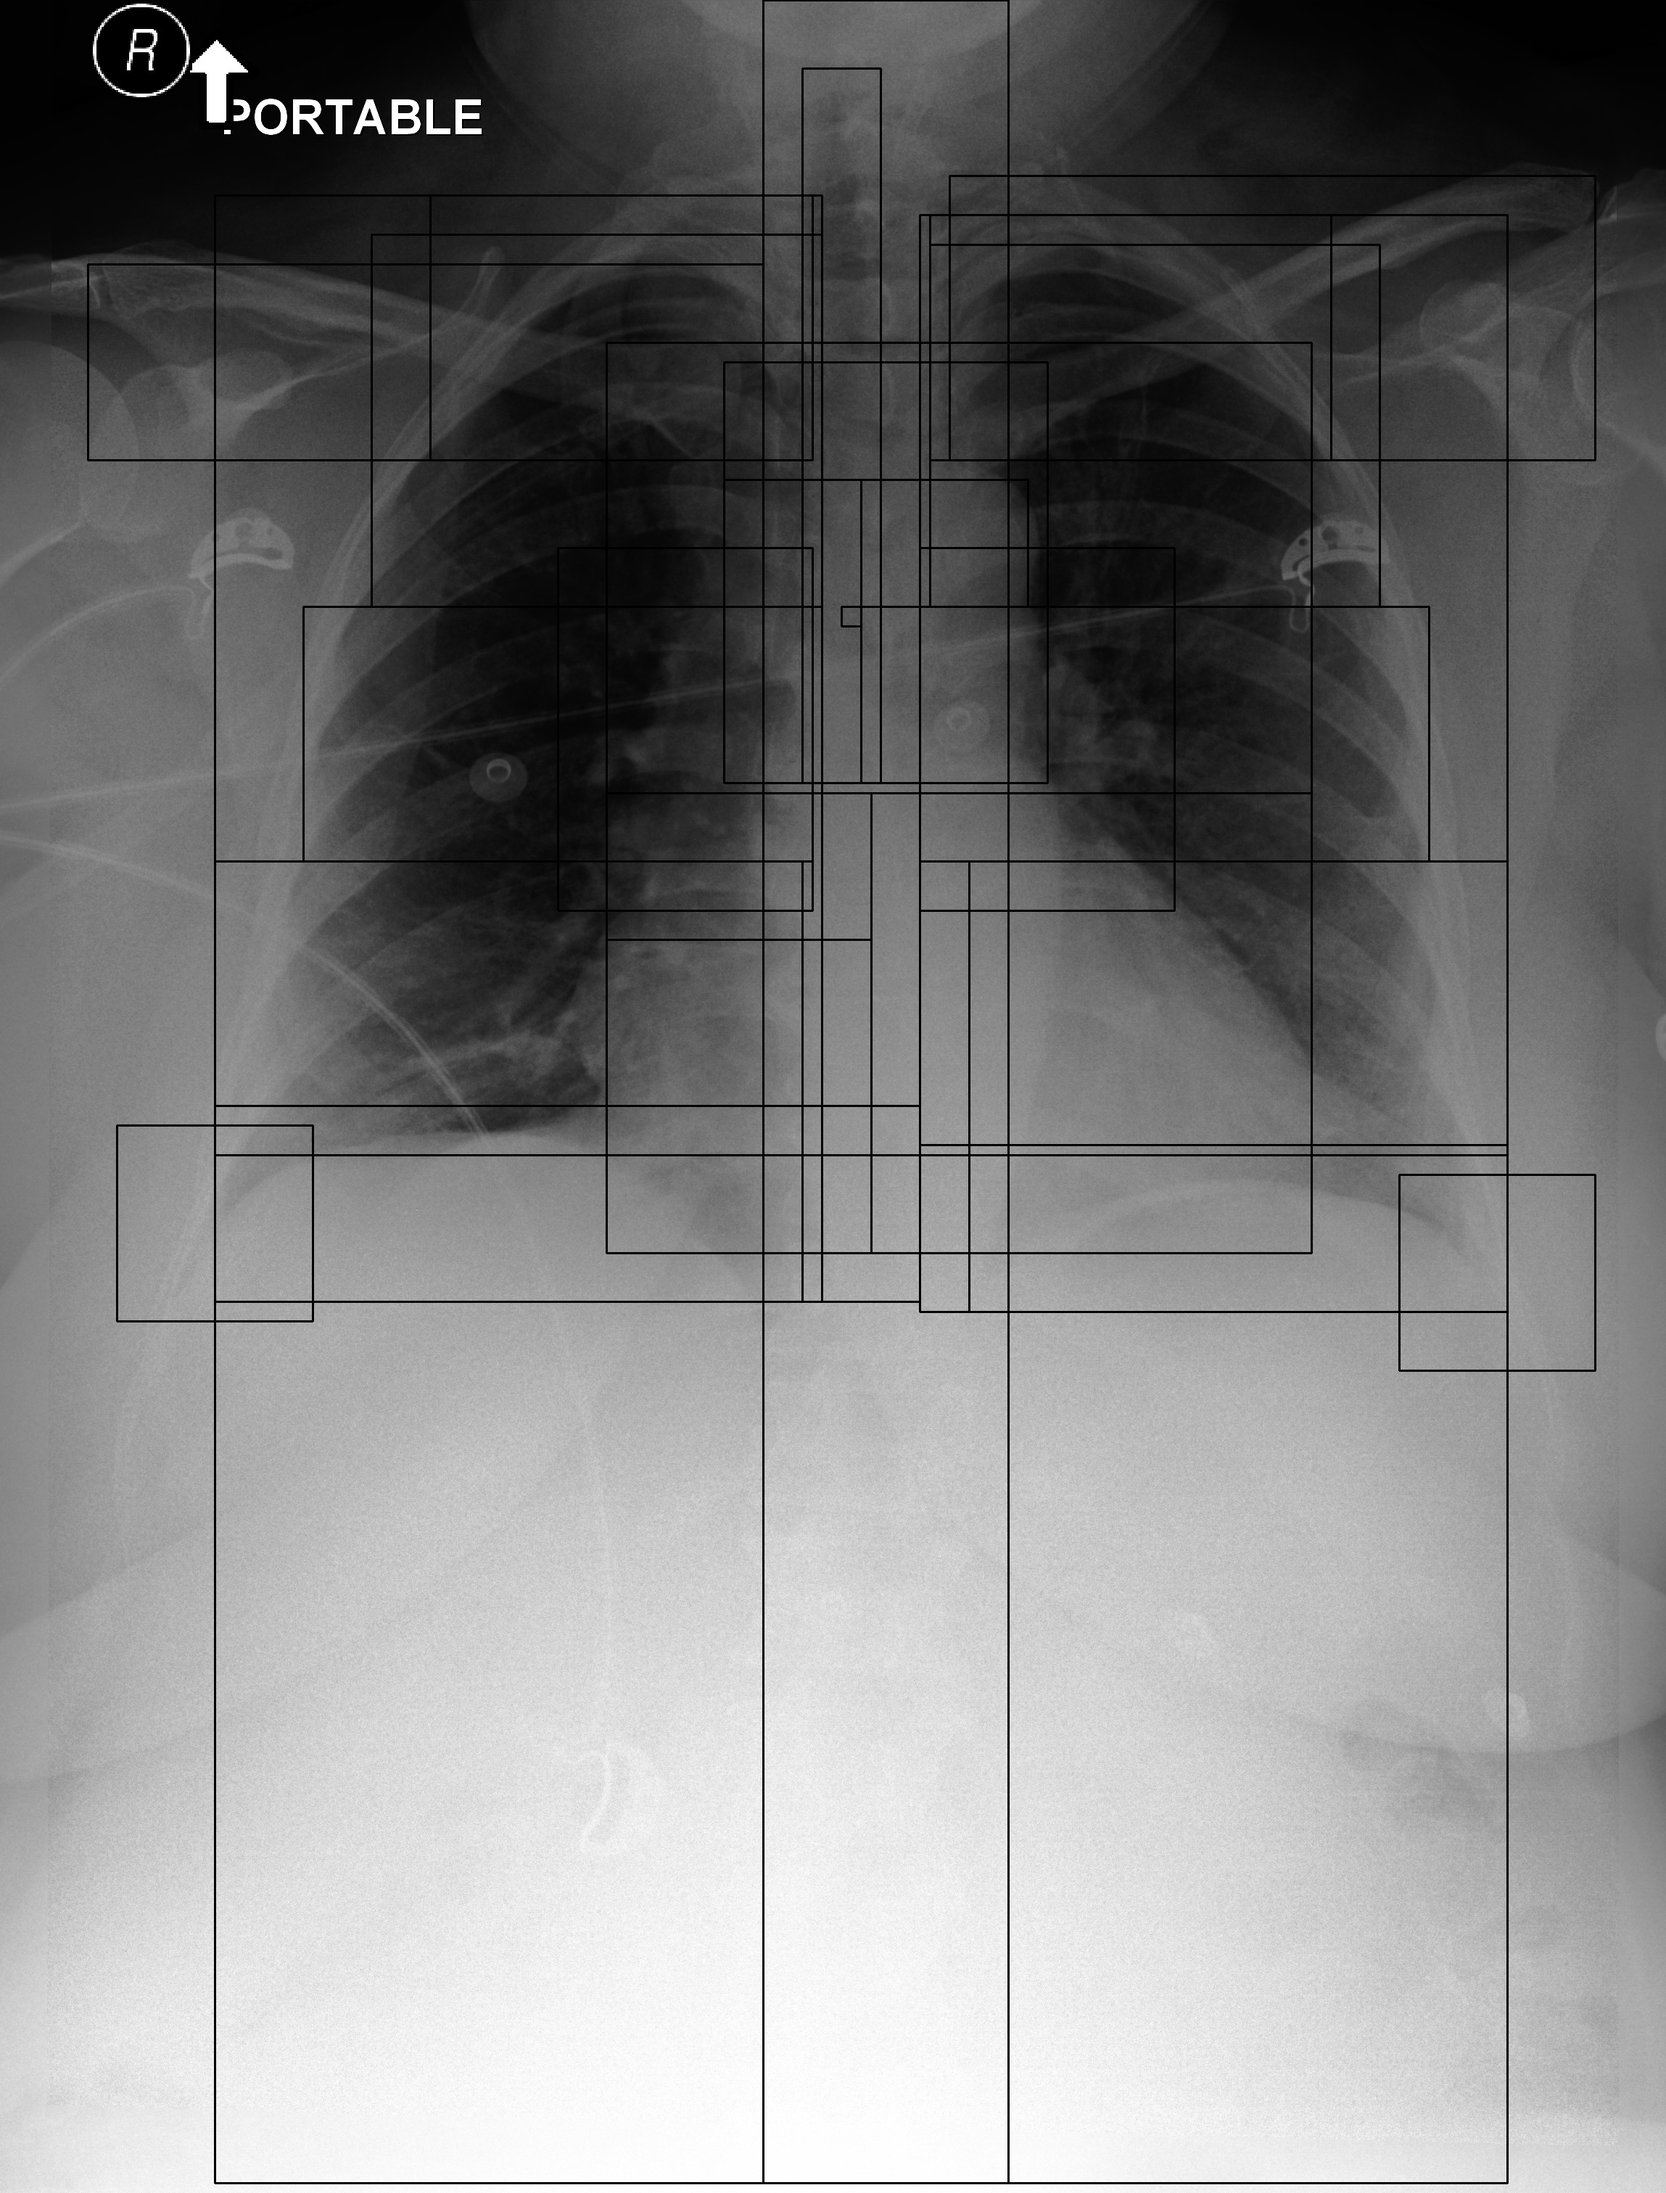
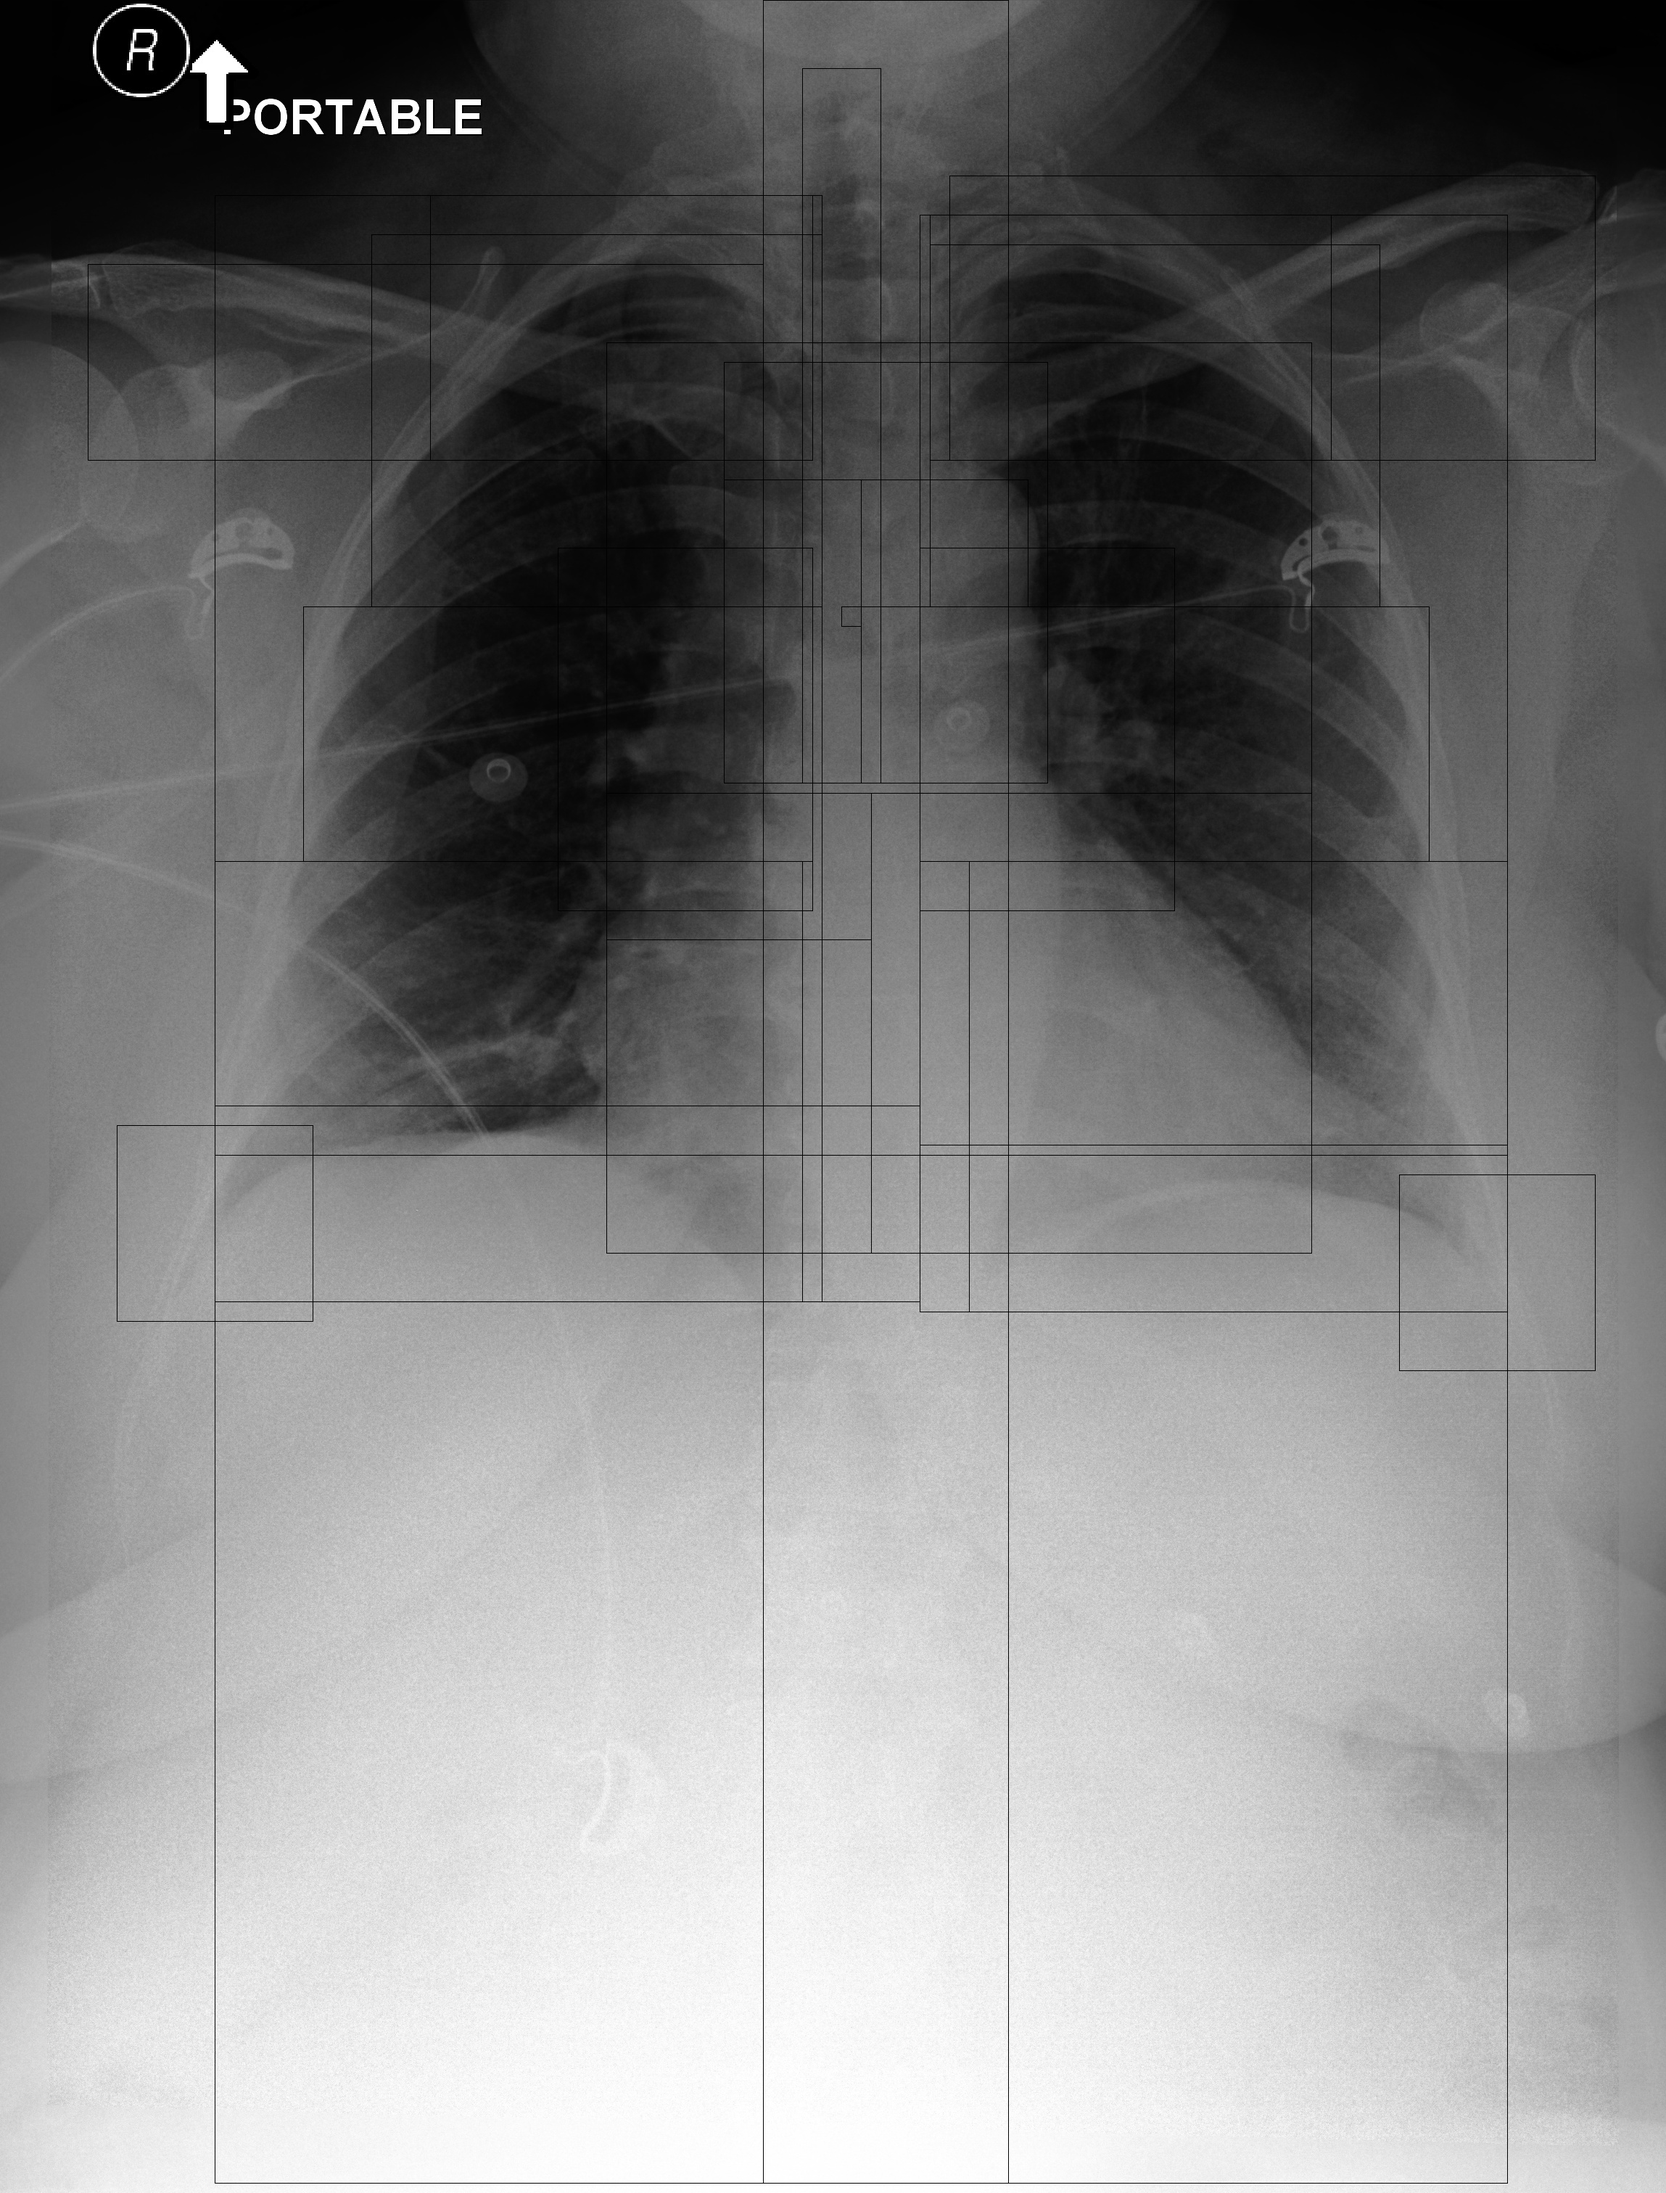
update data preprocessing

diff --git a/detector/data_loader.py b/detector/data_loader.py
@@ -9,6 +9,8 @@ from torchvision.transforms import functional as F
 import random
 import pandas as pd 
 from torchvision.transforms import v2
+from torchvision import tv_tensors  # we'll describe this a bit later, bare with us
+
 import matplotlib.pyplot as plt
 # from .utils import plot_example_with_boxes
 
@@ -45,38 +47,31 @@ class F_RCNNDataset(Dataset):
         # convert the string representation of bounding boxes into list of list
         bboxes = eval(bboxes)
 
-        # resize the image with the bounding boxes accordingly to 512x512
-        # img, bboxes = self.resize(img, bboxes, (512, 512))
-        img,bboxes = ResizeAndPad((512,512))(img,bboxes)
-
         # get the labels
         labels = self.data_info.iloc[idx, 5]
 
         # convert the string representation of labels into list
         labels = np.array(eval(labels))
 
+        # resize the image with the bounding boxes accordingly to 512x512
+        img,bboxes = ResizeAndPad((512,512))(img,bboxes)
+
+
+
         if self.transform:
-            transform_dict = self.transform(img,bboxes,labels)
-            img = transform_dict['image']
-            bboxes = transform_dict['bboxes']
-            labels = transform_dict['labels']
+            bboxes = tv_tensors.BoundingBoxes(
+                bboxes,
+                format="XYXY", canvas_size=(512, 512))
+            img, bboxes = self.transform(img, bboxes)
+            # print size of image
+            print(img.size())
+
+            # p
         else:
-            img = torch.as_tensor(img, dtype=torch.float32)
+            img = Image.fromarray(img)
+            img = v2.ToTensor()(img)
             bboxes = torch.as_tensor(bboxes, dtype=torch.float32)
-            labels = torch.as_tensor(labels, dtype=torch.int64)
-        # convert everything into a torch.Tensor
-        # bboxes = np.array(eval(bboxes))
-        # labels = np.array(eval(labels))
-
-        # bboxes = torch.as_tensor(bboxes, dtype=torch.float64)
-        # labels = torch.as_tensor(labels, dtype=torch.int64)
-        # img=torch.as_tensor(img,dtype=torch.float32)
-
-        # if self.transform:
-        #     transform_dict = self.transform(img,bboxes,labels)
-        #     img = transform_dict['image']
-        #     bboxes = transform_dict['bboxes']
-        #     labels = transform_dict['labels']
+        labels = torch.as_tensor(labels, dtype=torch.int64)
 
         # define the bounding box
         target = {}
@@ -88,28 +83,30 @@ class F_RCNNDataset(Dataset):
 # implement transforms as augmentation with gaussian noise, random rotation
 
 class Augmentation(object):
-    def __init__(self, noise_std=0.1, rotate_angle=10):
+    def __init__(self, noise_std=0.1, rotate_angle=2):
         self.noise_std = noise_std
         self.rotate_angle = rotate_angle
 
-        self.transforms = v2.Compose([
+        self.rotation_transforms = v2.Compose([
             # randomly rotate the image
-            v2.RandomRotation(self.rotate_angle),
+            # v2.RandomRotation(self.rotate_angle),
+            
+            v2.RandomRotation(degrees=(-self.rotate_angle, self.rotate_angle)),
             v2.ToTensor(),
-
-            # add gaussian noise to the image
+            ]
+        )
+        self.normalize_transforms = v2.Compose([
+            # randomly rotate the image
             AddGaussianNoise(0,self.noise_std),
-
-            # convert the image to tensor and normalize with imagenet mean and std
-            v2.Normalize(0.485, 0.229), # normalize with imagenet mean and std
-        ],
-        # resize the bounding boxes accordingly
-        bbox_params=v2.BboxParams(format='pascal_voc', label_fields=['labels'])
+            v2.Normalize([0.499], [0.291]), # normalize with imagenet mean and std
+            ]
         )
 
-    def __call__(self, img,bboxes,labels):
+    def __call__(self, img,bboxes):
         # apply the transforms to the image and the bounding boxes
-        return self.transforms(image=img, bboxes=bboxes,class_labels=labels)
+        img = self.normalize_transforms(img)
+        img = Image.fromarray(img)
+        return self.rotation_transforms(img,bboxes)
 
 
 # Define a custom transform to add Gaussian noise
@@ -118,9 +115,14 @@ class AddGaussianNoise(object):
         self.mean = mean
         self.std = std
 
-    def __call__(self, tensor):
-        # Add Gaussian noise to the tensor
-        return tensor + torch.randn(tensor.size()) * self.std + self.mean
+    def __call__(self, img):
+        # Add Gaussian noise to the PIL image
+        img = np.array(img)
+        img = img.astype(np.float32)
+        noise = np.random.normal(self.mean, self.std, img.shape)
+        img = img + noise
+        img = np.clip(img, 0, 255).astype(np.uint8)
+        return img
 
 
 # Define a custom transform to resize and pad the image and update bounding boxes
@@ -131,31 +133,62 @@ class ResizeAndPad(object):
     def __call__(self, image, boxes=None):
         # Resize the  image while maintaining aspect ratio
         width, height = image.shape[0],image.shape[1]
+
+        # calculate aspect ratio
         aspect_ratio = width / height
+
+        # get the long and short side of the image
         long_side = max(self.target_size)
         short_side = min(self.target_size)
 
         new_width = 0
         new_height = 0
+
+        # resize the image according to the long side
+        # if width > height then resize according to width
         if width > height:
+            # width = 1024 , height = 512, long_side = 512, aspect ratio = 2 => new_width = 512, new_height = 256
             new_width = long_side
             new_height = int(new_width / aspect_ratio)
 
         else:
+            # width = 512 , height = 1024, long_side = 512, aspect ratio = 0.5 => new_width = 256, new_height = 512
             new_height = long_side
             new_width = int(new_height * aspect_ratio)
+        
+        # new width is row, new height is column
+        # resize the image
         resized_image = cv2.resize(image, (new_height, new_width))
 
         # Create a new black grayscale image with the desired size
         new_image = np.zeros(self.target_size, dtype=np.float32)
-        # add the resized image to top left corner of the new image
-        new_image[:new_width, :new_height] = resized_image
-        # change the bounding boxes accordingly
-        if boxes is not None:
-            boxes = np.array(boxes)
-            boxes[:, [0, 2]] = boxes[:, [0, 2]] * (new_width / width)
-            boxes[:, [1, 3]] = boxes[:, [1, 3]] * (new_height / height)
+
+        # add the resized image to the new image and center it
+        # if width > height then the resized image will be added to the new image with the same width but different height
+        if new_width > new_height:
+            # calculate the starting and ending column
+            start = int((new_width - new_height) / 2)
+            end = start + new_height
+            new_image[:, start:end] = resized_image
+            # change the bounding boxes accordingly and add shift to the x coordinate
+            if boxes is not None:
+                boxes = np.array(boxes)
+                boxes[:, [0, 2]] = boxes[:, [0, 2]] * (new_height / height) + start
+                boxes[:, [1, 3]] = boxes[:, [1, 3]] * (new_width / width)
+        else:
+            # if width < height then the resized image will be added to the new image with the same height but different width
+            # calculate the starting and ending row
+            start = int((new_height - new_width) / 2)
+            end = start + new_width
+            new_image[start:end, :] = resized_image
+            # change the bounding boxes accordingly and add shift to the y coordinate
+            if boxes is not None:
+                boxes = np.array(boxes)
+                boxes[:, [0, 2]] = boxes[:, [0, 2]] * (new_height / height)
+                boxes[:, [1, 3]] = boxes[:, [1, 3]] * (new_width / width) + start
+
         return new_image, boxes
+
 
 def plot_example_with_boxes(img,boxes,name = "test.jpg"):
     """
@@ -165,7 +198,7 @@ def plot_example_with_boxes(img,boxes,name = "test.jpg"):
     img = img.copy()
     for box in boxes:
         x1,y1,x2,y2 = box
-        cv2.rectangle(img,(int(x1),int(y1)),(int(x2),int(y2)),(0,255,0),2)
+        cv2.rectangle(img,(int(x1),int(y1)),(int(x2),int(y2)),(0,255,0),1)
 
     # show the image with the bounding boxes using cv2
     cv2.imshow("image", img)
@@ -192,18 +225,37 @@ if __name__ == '__main__':
     bboxes = eval(bboxes)
 
     # plot the image with the bounding boxes
-    plot_example_with_boxes(img, bboxes,name = "before.jpg")
+    # plot_example_with_boxes(img, bboxes,name = "before.jpg")
     
     # create the dataset
-    dataset = F_RCNNDataset(dataset_path= 'datasets/train-200.csv')
+    dataset = F_RCNNDataset(dataset_path= 'datasets/train-200.csv', transform = Augmentation())
 
     # get the image and the target
-    img, target = dataset[0]
-    img = img.numpy()
-    bboxes = target['boxes'].numpy()
-    print(bboxes)
-    # convert image to uint8
-    img = img.astype(np.uint8)
-    # plot the image with the bounding boxes
-    plot_example_with_boxes(img, bboxes,name = "after.jpg")
 
+    for i in range(20):
+        img, target = dataset[i]
+        img = img.numpy()[0]
+        bboxes = target['boxes'].numpy()
+        # convert image to uint8
+        img = img*255
+        img = img.astype(np.uint8)
+        # convert imafe to numpy array
+        img = np.array(img)
+        # plot the image with the bounding boxes
+        plot_example_with_boxes(img, bboxes,name = "after.jpg")
+
+    # # apply the augmentation
+    # transform = Augmentation()
+    # img = Image.fromarray(img)
+    # bboxes = tv_tensors.BoundingBoxes(
+    #     bboxes,
+    #     format="XYXY", canvas_size=(512, 512))
+
+    # img, bboxes = transform(img, bboxes)
+
+    # img = np.array(img)[0]
+    # bboxes = np.array(bboxes)
+    # print("bboxes",bboxes)
+    # print("img",img)
+    # # plot the image with the bounding boxes
+    # plot_example_with_boxes(img,bboxes,name = "after_augmentation.jpg")
